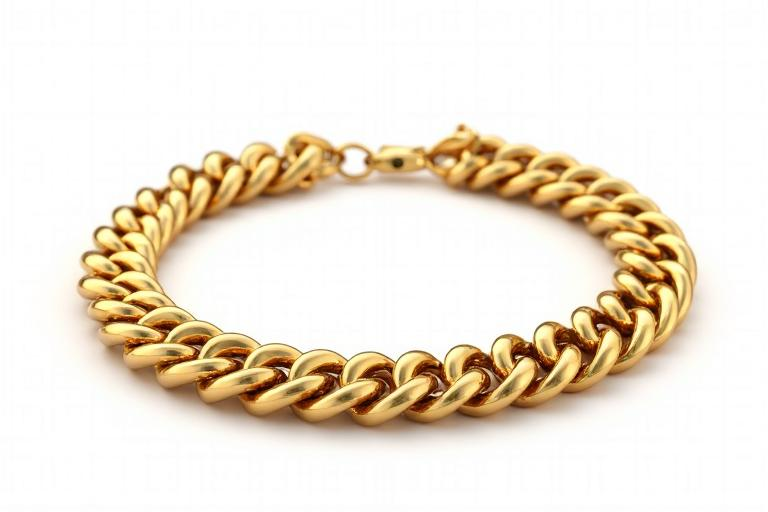
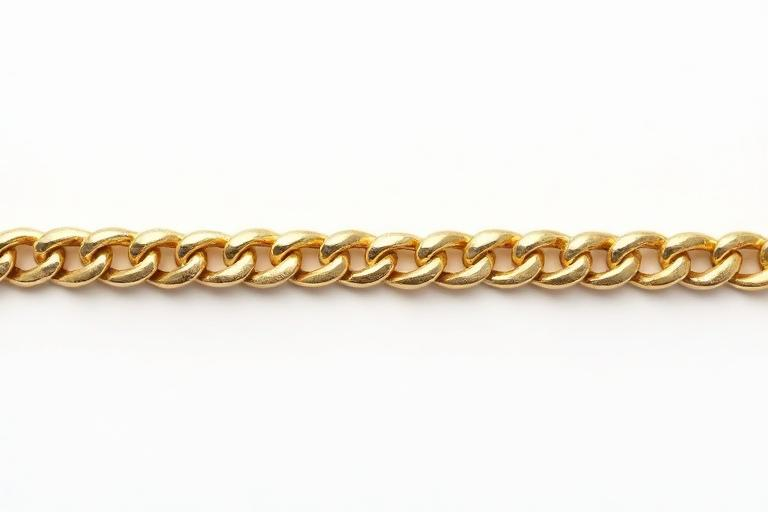
Changes

diff --git a/src/components/3d/ARJewellery3D.tsx b/src/components/3d/ARJewellery3D.tsx
@@ -78,8 +78,7 @@ const ARJewellery3D = ({ modelId, x, y, size, rotation, headPose, category }: AR
 
   if (!ModelComponent) return null;
 
-  const isLargeCanvas = category === "necklaces" || category === "earrings";
-  const canvasSize = isLargeCanvas ? size * 1.3 : size;
+  const canvasSize = size * 1.3;
 
   return (
     <div
@@ -94,7 +93,7 @@ const ARJewellery3D = ({ modelId, x, y, size, rotation, headPose, category }: AR
       }}
     >
       <Canvas
-        camera={{ position: [0, 0, 3], fov: isLargeCanvas ? 40 : 35 }}
+        camera={{ position: [0, 0, 3], fov: (category === "necklaces" || category === "earrings") ? 40 : 35 }}
         gl={{
           alpha: true,
           antialias: true,
